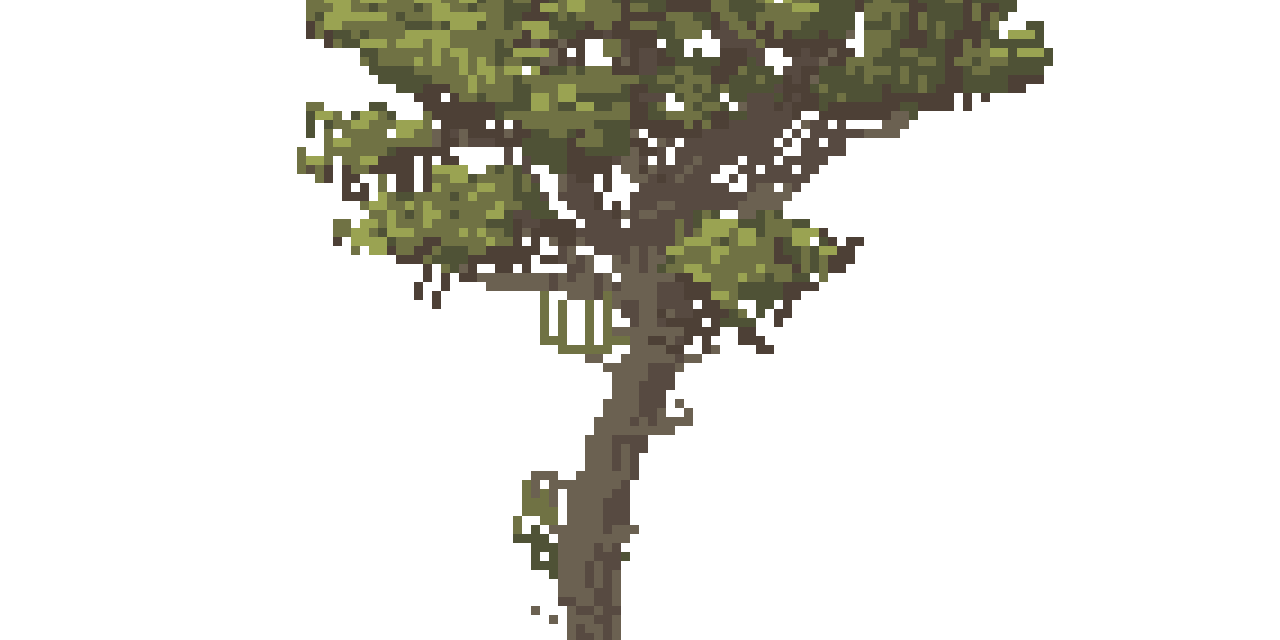
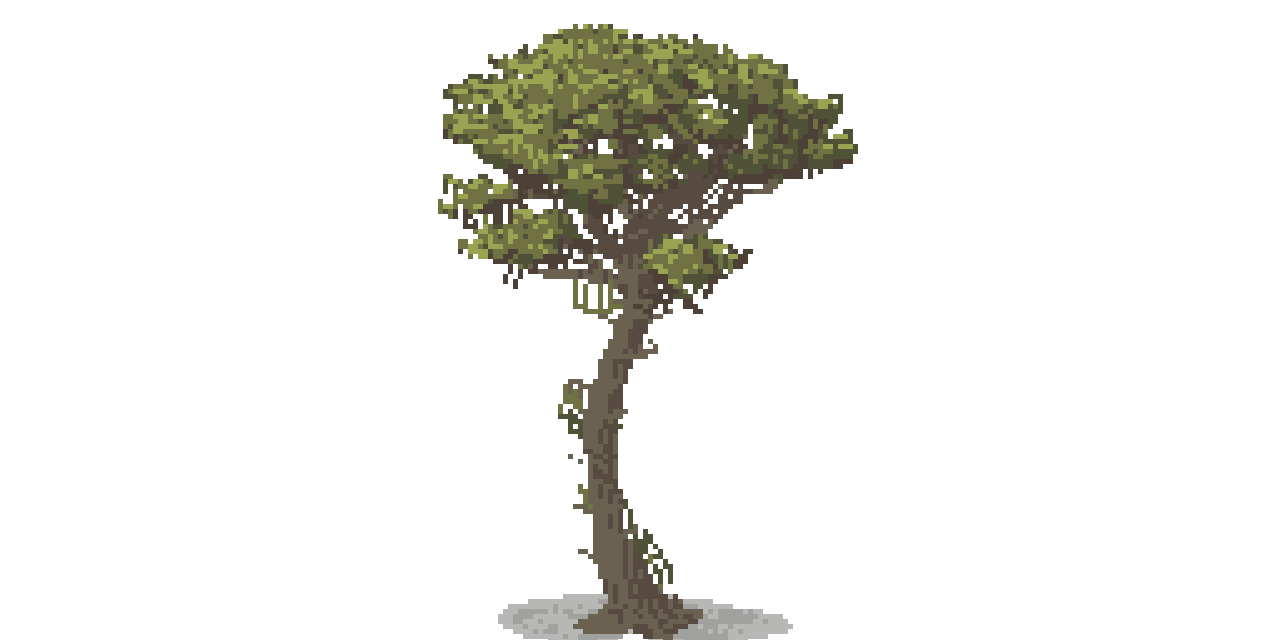
feat: parallax effect

Changed region(s): [[0.2188, 0.0, 0.8438, 1.0]]

diff --git a/client/src/scenes/GameScene.js b/client/src/scenes/GameScene.js
@@ -46,75 +46,72 @@ class GameScene extends Phaser.Scene {
     // -------------------------
 
     // -------------------------
-    // Parallax Layers
+    // Background Layers (inert)
     //
+
+    // layer0
     this.add
       .image(0, 0, "layer0")
       //
       .setOrigin(0, 0);
 
-    // -------------------------
-    //
-    this.add
-      .image(0, 0, "layer1")
-      //
-      .setOrigin(0, 0);
-
-    // -------------------------
-    //
+    // layer2
     this.add
       .image(0, 0, "layer2")
       //
       .setOrigin(0, 0);
 
-    // -------------------------
     //
-    this.add
-      .image(0, 0, "layer3")
-      //
-      .setOrigin(0, 0);
+    //  Parallax - Start
+    //
 
-    // -------------------------
-    //
-    this.add
-      .image(0, 0, "layer4")
-      //
-      .setOrigin(0, 0);
+    // Get the window sizes
+    let windowWidth = window.innerWidth;
+    let windowHeight = window.innerHeight;
 
-    //
-    // --------------------
-    //  TEST - PARALLAX
-    /*
-    this.hslayer1 = this.game.add.tileSprite(
-      0,
-      this.game.height - this.game.cache.getImage("layer1").height,
-      this.game.width,
-      this.game.cache.getImage("layer1").height,
+    // Find the center of the top space
+    let topBackgroundXOrigin = windowWidth / 2.5;
+    let topBackgroundYOrigin = (windowHeight / 5) * 2;
+    let topBackgroundHeight = (windowHeight / 5) * 5;
+
+    // Base width and height of the images
+    let imageBaseWidth = 1280;
+    let imageBaseHeight = 640;
+    let heightRatio = topBackgroundHeight / imageBaseHeight;
+
+    // Add each layer one by one
+
+    // layer1
+    this.hslayer1 = this.add.tileSprite(
+      topBackgroundXOrigin,
+      topBackgroundYOrigin,
+      imageBaseWidth,
+      imageBaseHeight,
       "layer1"
     );
+    this.hslayer1.setScale(heightRatio);
 
-    this.hslayer3 = this.game.add.tileSprite(
-      0,
-      this.game.height - this.game.cache.getImage("layer3").height,
-      this.game.width,
-      this.game.cache.getImage("layer3").height,
+    // layer3
+    this.hslayer3 = this.add.tileSprite(
+      topBackgroundXOrigin,
+      topBackgroundYOrigin,
+      imageBaseWidth,
+      imageBaseHeight,
       "layer3"
     );
+    this.hslayer3.setScale(heightRatio);
 
-    this.hslayer4 = this.game.add.tileSprite(
-      0,
-      this.game.height - this.game.cache.getImage("layer4").height,
-      this.game.width,
-      this.game.cache.getImage("layer4").height,
+    // layer4
+    this.hslayer4 = this.add.tileSprite(
+      topBackgroundXOrigin,
+      topBackgroundYOrigin,
+      imageBaseWidth,
+      imageBaseHeight,
       "layer4"
     );
-    */
+    this.hslayer4.setScale(heightRatio);
     //
-    //
-    //  TEST - PARALLAX
-    // ---------------------
-    //
-    //
+    // Parallax - End
     //
     this.groundGroup = this.add.group({
       removeCallback: (ground) => {
@@ -228,14 +225,10 @@ class GameScene extends Phaser.Scene {
       this.addGround(nextGroundWidth, 1280 + nextGroundWidth / 2);
     }
 
-    //
-    // TEST - PARALLAX
-    //
-    /*
-    this.hslayer1.tilePosition.x -= 0.05;
-    this.hslayer3.tilePosition.x -= 0.3;
-    this.hslayer4.tilePosition.x -= 0.75;
-    */
+    // Test Parallax
+    this.hslayer1.tilePositionX += 0.15;
+    this.hslayer3.tilePositionX += 0.1;
+    this.hslayer4.tilePositionX += 0.2;
   }
 }
 // -------------------------
